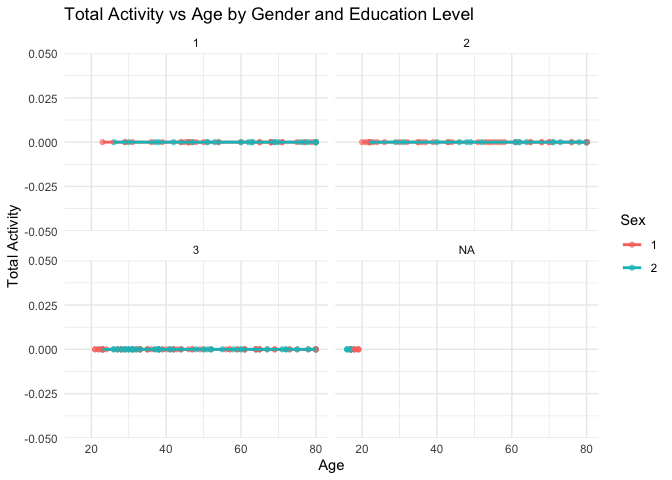
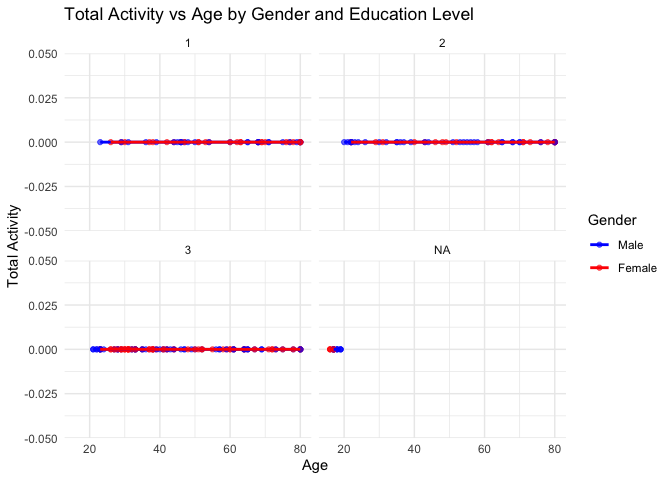
all done, changed color in the figure and delete too much analysis on the merged data

diff --git a/p8105_hw3_cr3442.md b/p8105_hw3_cr3442.md
@@ -184,252 +184,6 @@ head(merged_data)
     ## #   min32 <dbl>, min33 <dbl>, min34 <dbl>, min35 <dbl>, min36 <dbl>,
     ## #   min37 <dbl>, min38 <dbl>, min39 <dbl>, min40 <dbl>, min41 <dbl>, …
 
-``` r
-colnames(merged_data)
-```
-
-    ##    [1] "SEQN"      "sex"       "age"       "BMI"       "education" "min1"     
-    ##    [7] "min2"      "min3"      "min4"      "min5"      "min6"      "min7"     
-    ##   [13] "min8"      "min9"      "min10"     "min11"     "min12"     "min13"    
-    ##   [19] "min14"     "min15"     "min16"     "min17"     "min18"     "min19"    
-    ##   [25] "min20"     "min21"     "min22"     "min23"     "min24"     "min25"    
-    ##   [31] "min26"     "min27"     "min28"     "min29"     "min30"     "min31"    
-    ##   [37] "min32"     "min33"     "min34"     "min35"     "min36"     "min37"    
-    ##   [43] "min38"     "min39"     "min40"     "min41"     "min42"     "min43"    
-    ##   [49] "min44"     "min45"     "min46"     "min47"     "min48"     "min49"    
-    ##   [55] "min50"     "min51"     "min52"     "min53"     "min54"     "min55"    
-    ##   [61] "min56"     "min57"     "min58"     "min59"     "min60"     "min61"    
-    ##   [67] "min62"     "min63"     "min64"     "min65"     "min66"     "min67"    
-    ##   [73] "min68"     "min69"     "min70"     "min71"     "min72"     "min73"    
-    ##   [79] "min74"     "min75"     "min76"     "min77"     "min78"     "min79"    
-    ##   [85] "min80"     "min81"     "min82"     "min83"     "min84"     "min85"    
-    ##   [91] "min86"     "min87"     "min88"     "min89"     "min90"     "min91"    
-    ##   [97] "min92"     "min93"     "min94"     "min95"     "min96"     "min97"    
-    ##  [103] "min98"     "min99"     "min100"    "min101"    "min102"    "min103"   
-    ##  [109] "min104"    "min105"    "min106"    "min107"    "min108"    "min109"   
-    ##  [115] "min110"    "min111"    "min112"    "min113"    "min114"    "min115"   
-    ##  [121] "min116"    "min117"    "min118"    "min119"    "min120"    "min121"   
-    ##  [127] "min122"    "min123"    "min124"    "min125"    "min126"    "min127"   
-    ##  [133] "min128"    "min129"    "min130"    "min131"    "min132"    "min133"   
-    ##  [139] "min134"    "min135"    "min136"    "min137"    "min138"    "min139"   
-    ##  [145] "min140"    "min141"    "min142"    "min143"    "min144"    "min145"   
-    ##  [151] "min146"    "min147"    "min148"    "min149"    "min150"    "min151"   
-    ##  [157] "min152"    "min153"    "min154"    "min155"    "min156"    "min157"   
-    ##  [163] "min158"    "min159"    "min160"    "min161"    "min162"    "min163"   
-    ##  [169] "min164"    "min165"    "min166"    "min167"    "min168"    "min169"   
-    ##  [175] "min170"    "min171"    "min172"    "min173"    "min174"    "min175"   
-    ##  [181] "min176"    "min177"    "min178"    "min179"    "min180"    "min181"   
-    ##  [187] "min182"    "min183"    "min184"    "min185"    "min186"    "min187"   
-    ##  [193] "min188"    "min189"    "min190"    "min191"    "min192"    "min193"   
-    ##  [199] "min194"    "min195"    "min196"    "min197"    "min198"    "min199"   
-    ##  [205] "min200"    "min201"    "min202"    "min203"    "min204"    "min205"   
-    ##  [211] "min206"    "min207"    "min208"    "min209"    "min210"    "min211"   
-    ##  [217] "min212"    "min213"    "min214"    "min215"    "min216"    "min217"   
-    ##  [223] "min218"    "min219"    "min220"    "min221"    "min222"    "min223"   
-    ##  [229] "min224"    "min225"    "min226"    "min227"    "min228"    "min229"   
-    ##  [235] "min230"    "min231"    "min232"    "min233"    "min234"    "min235"   
-    ##  [241] "min236"    "min237"    "min238"    "min239"    "min240"    "min241"   
-    ##  [247] "min242"    "min243"    "min244"    "min245"    "min246"    "min247"   
-    ##  [253] "min248"    "min249"    "min250"    "min251"    "min252"    "min253"   
-    ##  [259] "min254"    "min255"    "min256"    "min257"    "min258"    "min259"   
-    ##  [265] "min260"    "min261"    "min262"    "min263"    "min264"    "min265"   
-    ##  [271] "min266"    "min267"    "min268"    "min269"    "min270"    "min271"   
-    ##  [277] "min272"    "min273"    "min274"    "min275"    "min276"    "min277"   
-    ##  [283] "min278"    "min279"    "min280"    "min281"    "min282"    "min283"   
-    ##  [289] "min284"    "min285"    "min286"    "min287"    "min288"    "min289"   
-    ##  [295] "min290"    "min291"    "min292"    "min293"    "min294"    "min295"   
-    ##  [301] "min296"    "min297"    "min298"    "min299"    "min300"    "min301"   
-    ##  [307] "min302"    "min303"    "min304"    "min305"    "min306"    "min307"   
-    ##  [313] "min308"    "min309"    "min310"    "min311"    "min312"    "min313"   
-    ##  [319] "min314"    "min315"    "min316"    "min317"    "min318"    "min319"   
-    ##  [325] "min320"    "min321"    "min322"    "min323"    "min324"    "min325"   
-    ##  [331] "min326"    "min327"    "min328"    "min329"    "min330"    "min331"   
-    ##  [337] "min332"    "min333"    "min334"    "min335"    "min336"    "min337"   
-    ##  [343] "min338"    "min339"    "min340"    "min341"    "min342"    "min343"   
-    ##  [349] "min344"    "min345"    "min346"    "min347"    "min348"    "min349"   
-    ##  [355] "min350"    "min351"    "min352"    "min353"    "min354"    "min355"   
-    ##  [361] "min356"    "min357"    "min358"    "min359"    "min360"    "min361"   
-    ##  [367] "min362"    "min363"    "min364"    "min365"    "min366"    "min367"   
-    ##  [373] "min368"    "min369"    "min370"    "min371"    "min372"    "min373"   
-    ##  [379] "min374"    "min375"    "min376"    "min377"    "min378"    "min379"   
-    ##  [385] "min380"    "min381"    "min382"    "min383"    "min384"    "min385"   
-    ##  [391] "min386"    "min387"    "min388"    "min389"    "min390"    "min391"   
-    ##  [397] "min392"    "min393"    "min394"    "min395"    "min396"    "min397"   
-    ##  [403] "min398"    "min399"    "min400"    "min401"    "min402"    "min403"   
-    ##  [409] "min404"    "min405"    "min406"    "min407"    "min408"    "min409"   
-    ##  [415] "min410"    "min411"    "min412"    "min413"    "min414"    "min415"   
-    ##  [421] "min416"    "min417"    "min418"    "min419"    "min420"    "min421"   
-    ##  [427] "min422"    "min423"    "min424"    "min425"    "min426"    "min427"   
-    ##  [433] "min428"    "min429"    "min430"    "min431"    "min432"    "min433"   
-    ##  [439] "min434"    "min435"    "min436"    "min437"    "min438"    "min439"   
-    ##  [445] "min440"    "min441"    "min442"    "min443"    "min444"    "min445"   
-    ##  [451] "min446"    "min447"    "min448"    "min449"    "min450"    "min451"   
-    ##  [457] "min452"    "min453"    "min454"    "min455"    "min456"    "min457"   
-    ##  [463] "min458"    "min459"    "min460"    "min461"    "min462"    "min463"   
-    ##  [469] "min464"    "min465"    "min466"    "min467"    "min468"    "min469"   
-    ##  [475] "min470"    "min471"    "min472"    "min473"    "min474"    "min475"   
-    ##  [481] "min476"    "min477"    "min478"    "min479"    "min480"    "min481"   
-    ##  [487] "min482"    "min483"    "min484"    "min485"    "min486"    "min487"   
-    ##  [493] "min488"    "min489"    "min490"    "min491"    "min492"    "min493"   
-    ##  [499] "min494"    "min495"    "min496"    "min497"    "min498"    "min499"   
-    ##  [505] "min500"    "min501"    "min502"    "min503"    "min504"    "min505"   
-    ##  [511] "min506"    "min507"    "min508"    "min509"    "min510"    "min511"   
-    ##  [517] "min512"    "min513"    "min514"    "min515"    "min516"    "min517"   
-    ##  [523] "min518"    "min519"    "min520"    "min521"    "min522"    "min523"   
-    ##  [529] "min524"    "min525"    "min526"    "min527"    "min528"    "min529"   
-    ##  [535] "min530"    "min531"    "min532"    "min533"    "min534"    "min535"   
-    ##  [541] "min536"    "min537"    "min538"    "min539"    "min540"    "min541"   
-    ##  [547] "min542"    "min543"    "min544"    "min545"    "min546"    "min547"   
-    ##  [553] "min548"    "min549"    "min550"    "min551"    "min552"    "min553"   
-    ##  [559] "min554"    "min555"    "min556"    "min557"    "min558"    "min559"   
-    ##  [565] "min560"    "min561"    "min562"    "min563"    "min564"    "min565"   
-    ##  [571] "min566"    "min567"    "min568"    "min569"    "min570"    "min571"   
-    ##  [577] "min572"    "min573"    "min574"    "min575"    "min576"    "min577"   
-    ##  [583] "min578"    "min579"    "min580"    "min581"    "min582"    "min583"   
-    ##  [589] "min584"    "min585"    "min586"    "min587"    "min588"    "min589"   
-    ##  [595] "min590"    "min591"    "min592"    "min593"    "min594"    "min595"   
-    ##  [601] "min596"    "min597"    "min598"    "min599"    "min600"    "min601"   
-    ##  [607] "min602"    "min603"    "min604"    "min605"    "min606"    "min607"   
-    ##  [613] "min608"    "min609"    "min610"    "min611"    "min612"    "min613"   
-    ##  [619] "min614"    "min615"    "min616"    "min617"    "min618"    "min619"   
-    ##  [625] "min620"    "min621"    "min622"    "min623"    "min624"    "min625"   
-    ##  [631] "min626"    "min627"    "min628"    "min629"    "min630"    "min631"   
-    ##  [637] "min632"    "min633"    "min634"    "min635"    "min636"    "min637"   
-    ##  [643] "min638"    "min639"    "min640"    "min641"    "min642"    "min643"   
-    ##  [649] "min644"    "min645"    "min646"    "min647"    "min648"    "min649"   
-    ##  [655] "min650"    "min651"    "min652"    "min653"    "min654"    "min655"   
-    ##  [661] "min656"    "min657"    "min658"    "min659"    "min660"    "min661"   
-    ##  [667] "min662"    "min663"    "min664"    "min665"    "min666"    "min667"   
-    ##  [673] "min668"    "min669"    "min670"    "min671"    "min672"    "min673"   
-    ##  [679] "min674"    "min675"    "min676"    "min677"    "min678"    "min679"   
-    ##  [685] "min680"    "min681"    "min682"    "min683"    "min684"    "min685"   
-    ##  [691] "min686"    "min687"    "min688"    "min689"    "min690"    "min691"   
-    ##  [697] "min692"    "min693"    "min694"    "min695"    "min696"    "min697"   
-    ##  [703] "min698"    "min699"    "min700"    "min701"    "min702"    "min703"   
-    ##  [709] "min704"    "min705"    "min706"    "min707"    "min708"    "min709"   
-    ##  [715] "min710"    "min711"    "min712"    "min713"    "min714"    "min715"   
-    ##  [721] "min716"    "min717"    "min718"    "min719"    "min720"    "min721"   
-    ##  [727] "min722"    "min723"    "min724"    "min725"    "min726"    "min727"   
-    ##  [733] "min728"    "min729"    "min730"    "min731"    "min732"    "min733"   
-    ##  [739] "min734"    "min735"    "min736"    "min737"    "min738"    "min739"   
-    ##  [745] "min740"    "min741"    "min742"    "min743"    "min744"    "min745"   
-    ##  [751] "min746"    "min747"    "min748"    "min749"    "min750"    "min751"   
-    ##  [757] "min752"    "min753"    "min754"    "min755"    "min756"    "min757"   
-    ##  [763] "min758"    "min759"    "min760"    "min761"    "min762"    "min763"   
-    ##  [769] "min764"    "min765"    "min766"    "min767"    "min768"    "min769"   
-    ##  [775] "min770"    "min771"    "min772"    "min773"    "min774"    "min775"   
-    ##  [781] "min776"    "min777"    "min778"    "min779"    "min780"    "min781"   
-    ##  [787] "min782"    "min783"    "min784"    "min785"    "min786"    "min787"   
-    ##  [793] "min788"    "min789"    "min790"    "min791"    "min792"    "min793"   
-    ##  [799] "min794"    "min795"    "min796"    "min797"    "min798"    "min799"   
-    ##  [805] "min800"    "min801"    "min802"    "min803"    "min804"    "min805"   
-    ##  [811] "min806"    "min807"    "min808"    "min809"    "min810"    "min811"   
-    ##  [817] "min812"    "min813"    "min814"    "min815"    "min816"    "min817"   
-    ##  [823] "min818"    "min819"    "min820"    "min821"    "min822"    "min823"   
-    ##  [829] "min824"    "min825"    "min826"    "min827"    "min828"    "min829"   
-    ##  [835] "min830"    "min831"    "min832"    "min833"    "min834"    "min835"   
-    ##  [841] "min836"    "min837"    "min838"    "min839"    "min840"    "min841"   
-    ##  [847] "min842"    "min843"    "min844"    "min845"    "min846"    "min847"   
-    ##  [853] "min848"    "min849"    "min850"    "min851"    "min852"    "min853"   
-    ##  [859] "min854"    "min855"    "min856"    "min857"    "min858"    "min859"   
-    ##  [865] "min860"    "min861"    "min862"    "min863"    "min864"    "min865"   
-    ##  [871] "min866"    "min867"    "min868"    "min869"    "min870"    "min871"   
-    ##  [877] "min872"    "min873"    "min874"    "min875"    "min876"    "min877"   
-    ##  [883] "min878"    "min879"    "min880"    "min881"    "min882"    "min883"   
-    ##  [889] "min884"    "min885"    "min886"    "min887"    "min888"    "min889"   
-    ##  [895] "min890"    "min891"    "min892"    "min893"    "min894"    "min895"   
-    ##  [901] "min896"    "min897"    "min898"    "min899"    "min900"    "min901"   
-    ##  [907] "min902"    "min903"    "min904"    "min905"    "min906"    "min907"   
-    ##  [913] "min908"    "min909"    "min910"    "min911"    "min912"    "min913"   
-    ##  [919] "min914"    "min915"    "min916"    "min917"    "min918"    "min919"   
-    ##  [925] "min920"    "min921"    "min922"    "min923"    "min924"    "min925"   
-    ##  [931] "min926"    "min927"    "min928"    "min929"    "min930"    "min931"   
-    ##  [937] "min932"    "min933"    "min934"    "min935"    "min936"    "min937"   
-    ##  [943] "min938"    "min939"    "min940"    "min941"    "min942"    "min943"   
-    ##  [949] "min944"    "min945"    "min946"    "min947"    "min948"    "min949"   
-    ##  [955] "min950"    "min951"    "min952"    "min953"    "min954"    "min955"   
-    ##  [961] "min956"    "min957"    "min958"    "min959"    "min960"    "min961"   
-    ##  [967] "min962"    "min963"    "min964"    "min965"    "min966"    "min967"   
-    ##  [973] "min968"    "min969"    "min970"    "min971"    "min972"    "min973"   
-    ##  [979] "min974"    "min975"    "min976"    "min977"    "min978"    "min979"   
-    ##  [985] "min980"    "min981"    "min982"    "min983"    "min984"    "min985"   
-    ##  [991] "min986"    "min987"    "min988"    "min989"    "min990"    "min991"   
-    ##  [997] "min992"    "min993"    "min994"    "min995"    "min996"    "min997"   
-    ## [1003] "min998"    "min999"    "min1000"   "min1001"   "min1002"   "min1003"  
-    ## [1009] "min1004"   "min1005"   "min1006"   "min1007"   "min1008"   "min1009"  
-    ## [1015] "min1010"   "min1011"   "min1012"   "min1013"   "min1014"   "min1015"  
-    ## [1021] "min1016"   "min1017"   "min1018"   "min1019"   "min1020"   "min1021"  
-    ## [1027] "min1022"   "min1023"   "min1024"   "min1025"   "min1026"   "min1027"  
-    ## [1033] "min1028"   "min1029"   "min1030"   "min1031"   "min1032"   "min1033"  
-    ## [1039] "min1034"   "min1035"   "min1036"   "min1037"   "min1038"   "min1039"  
-    ## [1045] "min1040"   "min1041"   "min1042"   "min1043"   "min1044"   "min1045"  
-    ## [1051] "min1046"   "min1047"   "min1048"   "min1049"   "min1050"   "min1051"  
-    ## [1057] "min1052"   "min1053"   "min1054"   "min1055"   "min1056"   "min1057"  
-    ## [1063] "min1058"   "min1059"   "min1060"   "min1061"   "min1062"   "min1063"  
-    ## [1069] "min1064"   "min1065"   "min1066"   "min1067"   "min1068"   "min1069"  
-    ## [1075] "min1070"   "min1071"   "min1072"   "min1073"   "min1074"   "min1075"  
-    ## [1081] "min1076"   "min1077"   "min1078"   "min1079"   "min1080"   "min1081"  
-    ## [1087] "min1082"   "min1083"   "min1084"   "min1085"   "min1086"   "min1087"  
-    ## [1093] "min1088"   "min1089"   "min1090"   "min1091"   "min1092"   "min1093"  
-    ## [1099] "min1094"   "min1095"   "min1096"   "min1097"   "min1098"   "min1099"  
-    ## [1105] "min1100"   "min1101"   "min1102"   "min1103"   "min1104"   "min1105"  
-    ## [1111] "min1106"   "min1107"   "min1108"   "min1109"   "min1110"   "min1111"  
-    ## [1117] "min1112"   "min1113"   "min1114"   "min1115"   "min1116"   "min1117"  
-    ## [1123] "min1118"   "min1119"   "min1120"   "min1121"   "min1122"   "min1123"  
-    ## [1129] "min1124"   "min1125"   "min1126"   "min1127"   "min1128"   "min1129"  
-    ## [1135] "min1130"   "min1131"   "min1132"   "min1133"   "min1134"   "min1135"  
-    ## [1141] "min1136"   "min1137"   "min1138"   "min1139"   "min1140"   "min1141"  
-    ## [1147] "min1142"   "min1143"   "min1144"   "min1145"   "min1146"   "min1147"  
-    ## [1153] "min1148"   "min1149"   "min1150"   "min1151"   "min1152"   "min1153"  
-    ## [1159] "min1154"   "min1155"   "min1156"   "min1157"   "min1158"   "min1159"  
-    ## [1165] "min1160"   "min1161"   "min1162"   "min1163"   "min1164"   "min1165"  
-    ## [1171] "min1166"   "min1167"   "min1168"   "min1169"   "min1170"   "min1171"  
-    ## [1177] "min1172"   "min1173"   "min1174"   "min1175"   "min1176"   "min1177"  
-    ## [1183] "min1178"   "min1179"   "min1180"   "min1181"   "min1182"   "min1183"  
-    ## [1189] "min1184"   "min1185"   "min1186"   "min1187"   "min1188"   "min1189"  
-    ## [1195] "min1190"   "min1191"   "min1192"   "min1193"   "min1194"   "min1195"  
-    ## [1201] "min1196"   "min1197"   "min1198"   "min1199"   "min1200"   "min1201"  
-    ## [1207] "min1202"   "min1203"   "min1204"   "min1205"   "min1206"   "min1207"  
-    ## [1213] "min1208"   "min1209"   "min1210"   "min1211"   "min1212"   "min1213"  
-    ## [1219] "min1214"   "min1215"   "min1216"   "min1217"   "min1218"   "min1219"  
-    ## [1225] "min1220"   "min1221"   "min1222"   "min1223"   "min1224"   "min1225"  
-    ## [1231] "min1226"   "min1227"   "min1228"   "min1229"   "min1230"   "min1231"  
-    ## [1237] "min1232"   "min1233"   "min1234"   "min1235"   "min1236"   "min1237"  
-    ## [1243] "min1238"   "min1239"   "min1240"   "min1241"   "min1242"   "min1243"  
-    ## [1249] "min1244"   "min1245"   "min1246"   "min1247"   "min1248"   "min1249"  
-    ## [1255] "min1250"   "min1251"   "min1252"   "min1253"   "min1254"   "min1255"  
-    ## [1261] "min1256"   "min1257"   "min1258"   "min1259"   "min1260"   "min1261"  
-    ## [1267] "min1262"   "min1263"   "min1264"   "min1265"   "min1266"   "min1267"  
-    ## [1273] "min1268"   "min1269"   "min1270"   "min1271"   "min1272"   "min1273"  
-    ## [1279] "min1274"   "min1275"   "min1276"   "min1277"   "min1278"   "min1279"  
-    ## [1285] "min1280"   "min1281"   "min1282"   "min1283"   "min1284"   "min1285"  
-    ## [1291] "min1286"   "min1287"   "min1288"   "min1289"   "min1290"   "min1291"  
-    ## [1297] "min1292"   "min1293"   "min1294"   "min1295"   "min1296"   "min1297"  
-    ## [1303] "min1298"   "min1299"   "min1300"   "min1301"   "min1302"   "min1303"  
-    ## [1309] "min1304"   "min1305"   "min1306"   "min1307"   "min1308"   "min1309"  
-    ## [1315] "min1310"   "min1311"   "min1312"   "min1313"   "min1314"   "min1315"  
-    ## [1321] "min1316"   "min1317"   "min1318"   "min1319"   "min1320"   "min1321"  
-    ## [1327] "min1322"   "min1323"   "min1324"   "min1325"   "min1326"   "min1327"  
-    ## [1333] "min1328"   "min1329"   "min1330"   "min1331"   "min1332"   "min1333"  
-    ## [1339] "min1334"   "min1335"   "min1336"   "min1337"   "min1338"   "min1339"  
-    ## [1345] "min1340"   "min1341"   "min1342"   "min1343"   "min1344"   "min1345"  
-    ## [1351] "min1346"   "min1347"   "min1348"   "min1349"   "min1350"   "min1351"  
-    ## [1357] "min1352"   "min1353"   "min1354"   "min1355"   "min1356"   "min1357"  
-    ## [1363] "min1358"   "min1359"   "min1360"   "min1361"   "min1362"   "min1363"  
-    ## [1369] "min1364"   "min1365"   "min1366"   "min1367"   "min1368"   "min1369"  
-    ## [1375] "min1370"   "min1371"   "min1372"   "min1373"   "min1374"   "min1375"  
-    ## [1381] "min1376"   "min1377"   "min1378"   "min1379"   "min1380"   "min1381"  
-    ## [1387] "min1382"   "min1383"   "min1384"   "min1385"   "min1386"   "min1387"  
-    ## [1393] "min1388"   "min1389"   "min1390"   "min1391"   "min1392"   "min1393"  
-    ## [1399] "min1394"   "min1395"   "min1396"   "min1397"   "min1398"   "min1399"  
-    ## [1405] "min1400"   "min1401"   "min1402"   "min1403"   "min1404"   "min1405"  
-    ## [1411] "min1406"   "min1407"   "min1408"   "min1409"   "min1410"   "min1411"  
-    ## [1417] "min1412"   "min1413"   "min1414"   "min1415"   "min1416"   "min1417"  
-    ## [1423] "min1418"   "min1419"   "min1420"   "min1421"   "min1422"   "min1423"  
-    ## [1429] "min1424"   "min1425"   "min1426"   "min1427"   "min1428"   "min1429"  
-    ## [1435] "min1430"   "min1431"   "min1432"   "min1433"   "min1434"   "min1435"  
-    ## [1441] "min1436"   "min1437"   "min1438"   "min1439"   "min1440"
-
 Next, let’s summarize the data.
 
 ``` r
@@ -457,16 +211,14 @@ print(summary_table)
 Then visualize the data.
 
 ``` r
-# Install and load the ggplot2 package
-if (!require("ggplot2")) install.packages("ggplot2")
-library(ggplot2)
-
-# Draw the age distribution graph
+# Draw the age distribution graph with clear gender labels
 ggplot(merged_data, aes(x = age, fill = as.factor(sex))) +
   geom_histogram(bins = 30, alpha = 0.6, position = "identity") +
   facet_wrap(~ education) +
   labs(title = "Age Distribution by Gender and Education Level",
-       x = "Age", y = "Count", fill = "Sex") +
+       x = "Age", y = "Count", fill = "Gender") +
+  scale_fill_manual(values = c("1" = "blue", "2" = "red"),
+                    labels = c("Male", "Female")) +
   theme_minimal()
 ```
 
@@ -508,27 +260,7 @@ total_activity <- merged_data %>%
   rowwise() %>%
   mutate(total_activity = sum(c_across(starts_with("MIMS")), na.rm = TRUE)) %>%
   ungroup()
-
-
-head(total_activity)
 ```
-
-    ## # A tibble: 6 × 1,446
-    ##    SEQN   sex   age   BMI education  min1  min2  min3  min4   min5   min6  min7
-    ##   <dbl> <dbl> <dbl> <dbl>     <dbl> <dbl> <dbl> <dbl> <dbl>  <dbl>  <dbl> <dbl>
-    ## 1 62161     1    22  23.3         2 1.11  3.12  1.47  0.938 1.60   0.145  2.10 
-    ## 2 62164     2    44  23.2         3 1.92  1.67  2.38  0.935 2.59   5.22   2.39 
-    ## 3 62169     1    21  20.1         2 5.85  5.18  4.76  6.48  6.85   7.24   6.12 
-    ## 4 62174     1    80  33.9         3 5.42  3.48  3.72  3.81  6.85   4.45   0.561
-    ## 5 62177     1    51  20.1         2 6.14  8.06  9.99  6.60  4.57   2.78   7.10 
-    ## 6 62178     1    80  28.5         2 0.167 0.429 0.131 1.20  0.0796 0.0487 0.106
-    ## # ℹ 1,434 more variables: min8 <dbl>, min9 <dbl>, min10 <dbl>, min11 <dbl>,
-    ## #   min12 <dbl>, min13 <dbl>, min14 <dbl>, min15 <dbl>, min16 <dbl>,
-    ## #   min17 <dbl>, min18 <dbl>, min19 <dbl>, min20 <dbl>, min21 <dbl>,
-    ## #   min22 <dbl>, min23 <dbl>, min24 <dbl>, min25 <dbl>, min26 <dbl>,
-    ## #   min27 <dbl>, min28 <dbl>, min29 <dbl>, min30 <dbl>, min31 <dbl>,
-    ## #   min32 <dbl>, min33 <dbl>, min34 <dbl>, min35 <dbl>, min36 <dbl>,
-    ## #   min37 <dbl>, min38 <dbl>, min39 <dbl>, min40 <dbl>, min41 <dbl>, …
 
 Then we will plot a scatter plot of each participant’s total activity
 versus age, distinguishing between gender and education level.
@@ -540,7 +272,8 @@ ggplot(total_activity, aes(x = age, y = total_activity, color = as.factor(sex)))
   geom_smooth(method = "loess", se = FALSE) +
   facet_wrap(~ education) +
   labs(title = "Total Activity vs Age by Gender and Education Level",
-       x = "Age", y = "Total Activity", color = "Sex") +
+       x = "Age", y = "Total Activity", color = "Gender") +
+  scale_color_manual(values = c("1" = "blue", "2" = "red"), labels = c("Male", "Female")) +
   theme_minimal()
 ```
 
@@ -893,8 +626,24 @@ ggplot(median_ride_duration, aes(x = day_of_week, y = median_duration, fill = mo
 
 ![](p8105_hw3_cr3442_files/figure-gfm/median_3-1.png)<!-- -->
 
-Finally, Draw a chart to show the impact of month, member status and
-vehicle type on the distribution of riding time in the 2024 data.
+Analysis: For 2020: July rides were significantly longer than January,
+especially on weekends (Saturday and Sunday). This may reflect the
+increase in cycling in the summer months (July), when cyclists may
+choose to go outdoors more often. July rides peaked from Friday to
+Sunday, especially on Saturday and Sunday, where the median ride time
+exceeded 15 minutes, indicating that more people may use their weekends
+for longer rides. January rides were relatively short and less variable,
+indicating that the cold weather kept people from going out to ride,
+especially in 2020. For 2024: Compared to 2020, the overall ride time in
+2024 was lower. Both January and July had relatively low peak ride
+times. However, the difference between January and July was not as
+significant in 2024 as in 2020. Although July ride time was still
+slightly higher than January, the difference between the two was
+smaller. Moreover, in 2024, the ride time from Friday to Sunday tended
+to be stable and decreased compared to 2020.
+
+Finally, Let us draw a chart to show the impact of month, member status
+and vehicle type on the distribution of riding time in the 2024 data.
 
 ``` r
 # Filter data of 2024
@@ -912,3 +661,25 @@ ggplot(data_2024, aes(x = duration_minutes, fill = interaction(member_casual, ri
 ```
 
 ![](p8105_hw3_cr3442_files/figure-gfm/distribution_3-1.png)<!-- -->
+
+Analysis:
+
+Most of the rides are short, concentrated between 0 and 50 minutes,
+while longer rides (over 100 minutes) are very rare. This right-skewed
+distribution pattern is consistent in two months (January and July),
+with a clear peak, showing that most rides are concentrated in the
+shorter range.
+
+The distribution pattern of classic bikes and electric bikes is similar.
+Although the specific differences are not big, in general, the riding
+time of electric bikes (especially members) is slightly longer. This may
+be because electric bikes are more labor-saving. If I were in the same
+situation, I would also prefer electric bikes.
+
+Non-members ride slightly longer than members, which may be related to
+the fact that non-members tend to use rental services for longer
+sightseeing activities, while members may mainly use them for
+short-distance commuting, and non-members need to ride for a long time
+to make their investment back. The use of electric bicycles is more
+obvious among members, especially in shorter rides, which may be due to
+the fact that electric bicycles are more efficient in daily commuting.
